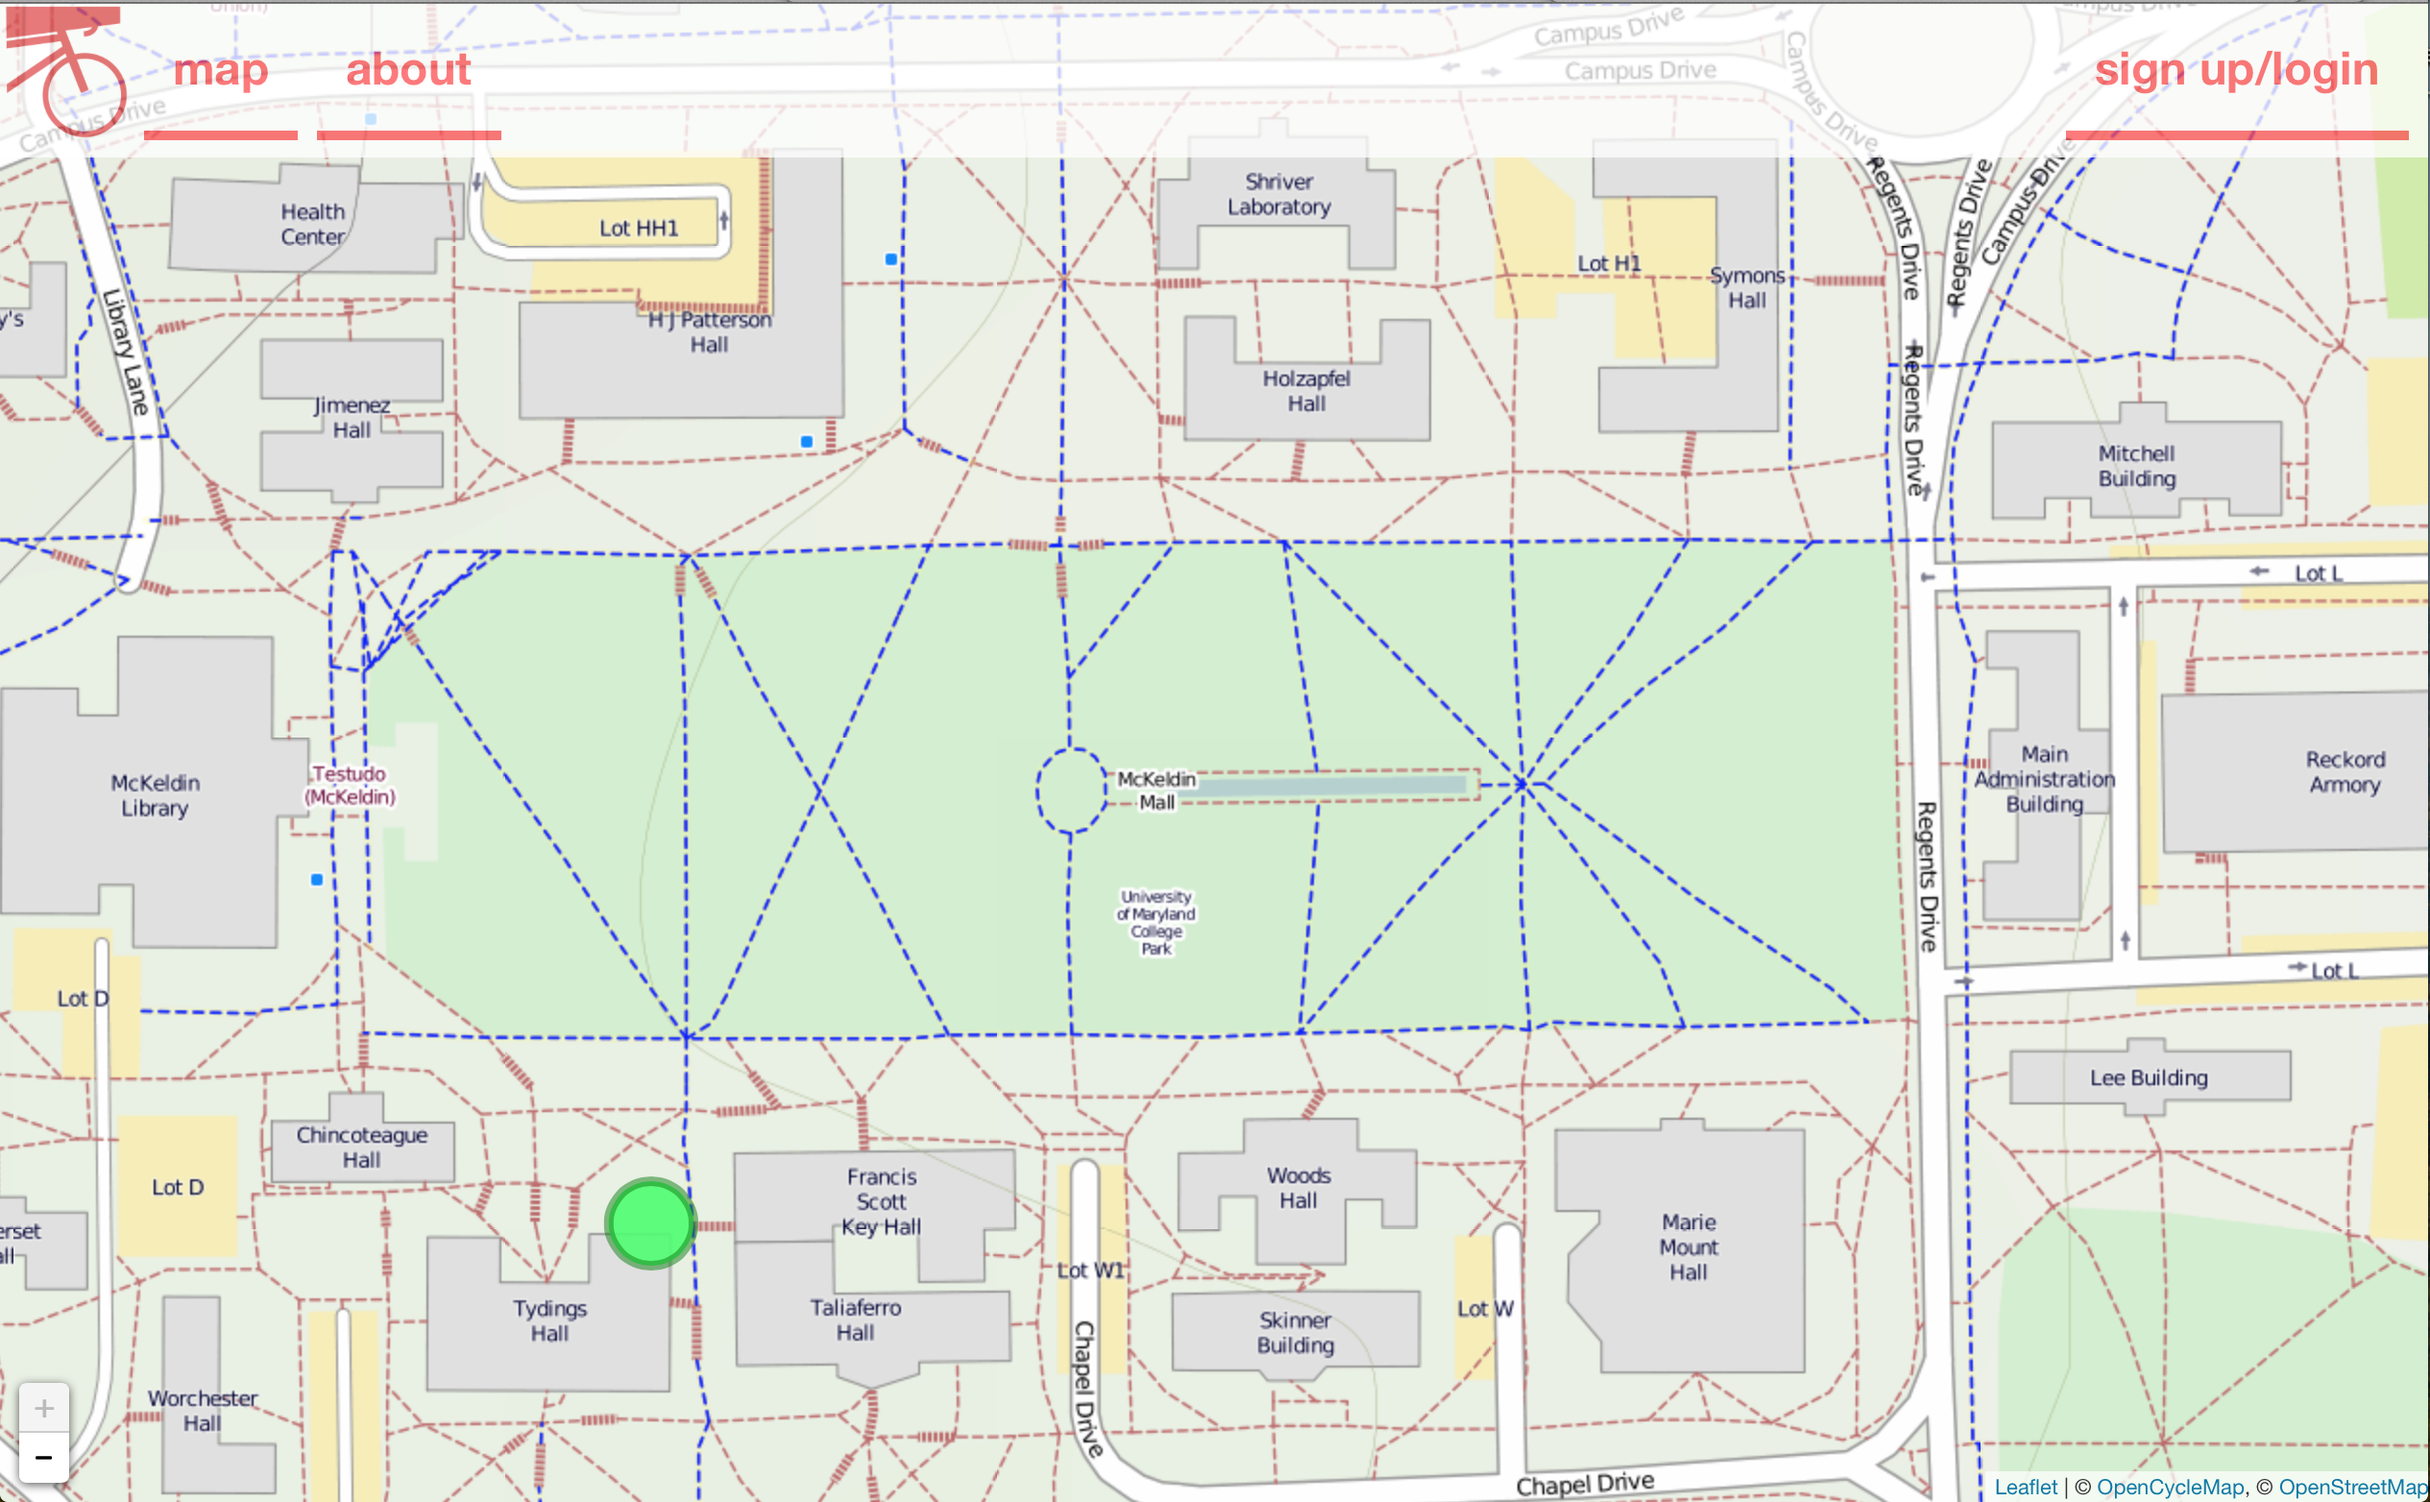
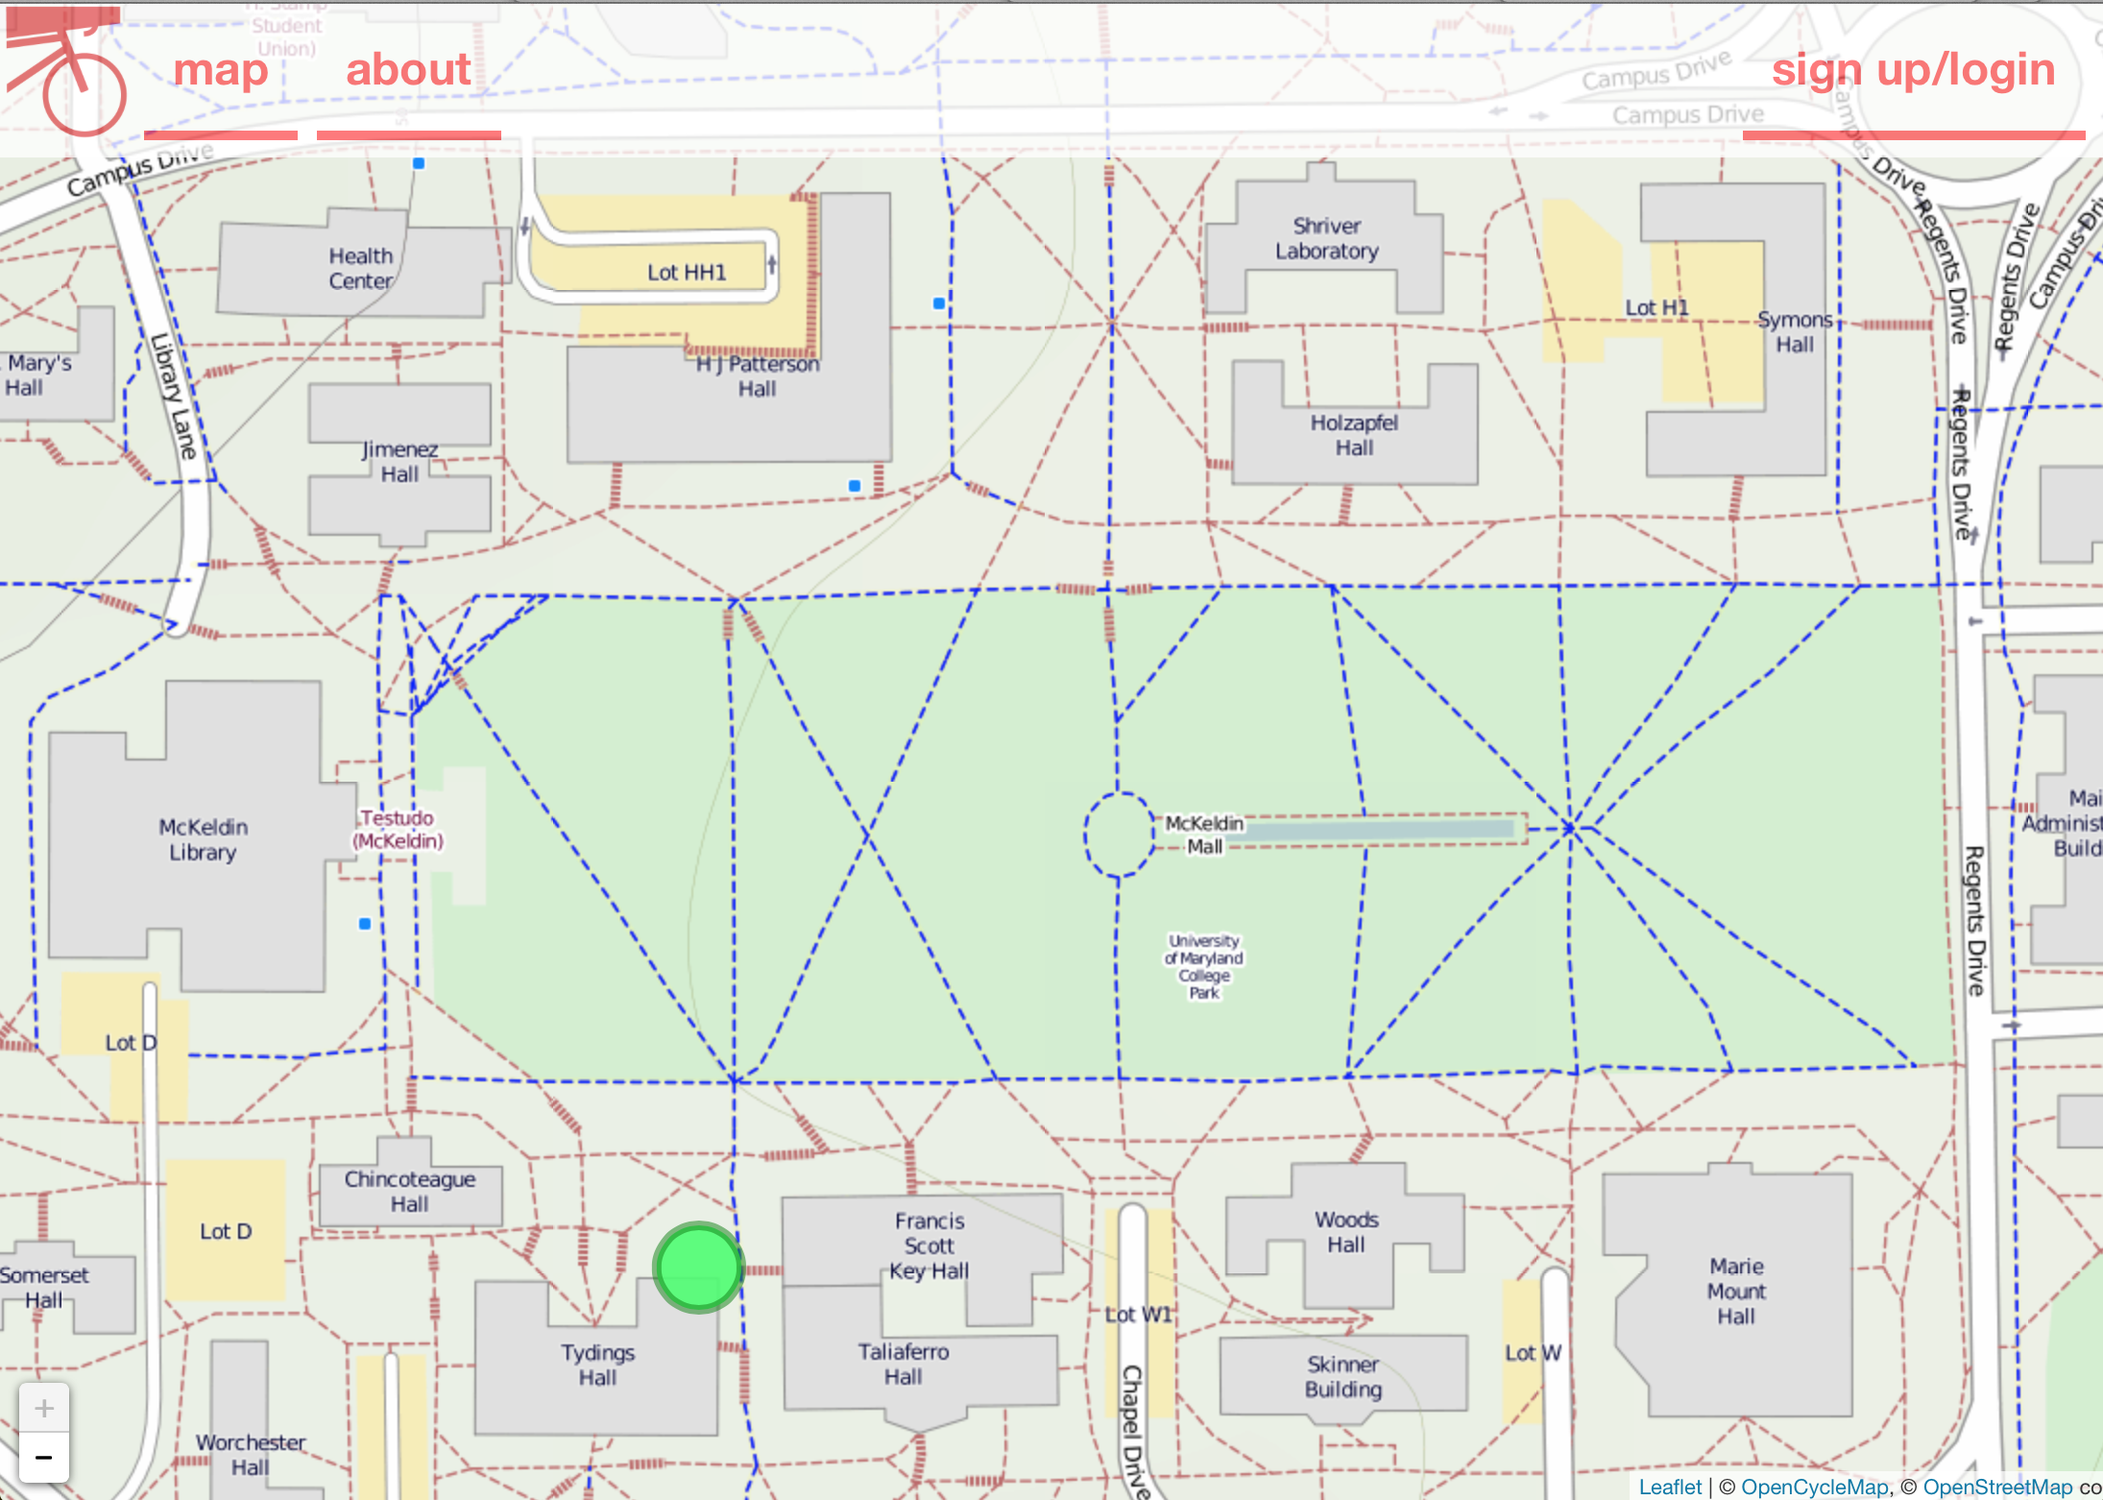
Public Content and Filler

diff --git a/src/styles/_custom/_browser.scss b/src/styles/_custom/_browser.scss
@@ -8,6 +8,8 @@ $browser-content-background-1: #F0F0F0;
 $browser-content-background-2: $base-background-color;
 $browser-content-background-3: #F0F0F0;
 
+$base-url: 'http://kyleking.me';
+
 .browsers {
   display:inline-block;
   padding-top: 0;
@@ -73,7 +75,7 @@ $browser-content-background-3: #F0F0F0;
   }
 
   .browser-content {
-    background: url(https://raw.githubusercontent.com/thoughtbot/refills/master/source/images/refills-screenshot1.png);
+    background: url(https://raw.githubusercontent.com/KyleKing/KyleKing.github.io/master/src/public/bikesAbout.png);
     background-color: $browser-content-background-1;
     background-position: top;
     background-repeat: no-repeat;
@@ -92,7 +94,7 @@ $browser-content-background-3: #F0F0F0;
   }
 
   .browser-content {
-    background: url(https://raw.githubusercontent.com/thoughtbot/refills/9c16f8b69d857c296c85f2d8c434e825f813a566/source/images/refills-screenshot2.jpg);
+    background: url(https://raw.githubusercontent.com/KyleKing/KyleKing.github.io/master/src/public/bikesMap.png);
     background-color: $browser-content-background-2;
     background-position: top;
     background-repeat: no-repeat;

diff --git a/tmp/styles/style.css b/tmp/styles/style.css
@@ -460,7 +460,7 @@ button, input[type="submit"] {
     .browser:nth-child(1) {
       display: inline-block; } }
   .browser:nth-child(1) .browser-content {
-    background: url(https://raw.githubusercontent.com/thoughtbot/refills/master/source/images/refills-screenshot1.png);
+    background: url(https://raw.githubusercontent.com/KyleKing/KyleKing.github.io/master/src/public/bikesAbout.png);
     background-color: #F0F0F0;
     background-position: top;
     background-repeat: no-repeat;
@@ -483,7 +483,7 @@ button, input[type="submit"] {
       transform: scale(1.2);
       width: 40%; } }
   .browser:nth-child(2) .browser-content {
-    background: url(https://raw.githubusercontent.com/thoughtbot/refills/9c16f8b69d857c296c85f2d8c434e825f813a566/source/images/refills-screenshot2.jpg);
+    background: url(https://raw.githubusercontent.com/KyleKing/KyleKing.github.io/master/src/public/bikesMap.png);
     background-color: white;
     background-position: top;
     background-repeat: no-repeat;
